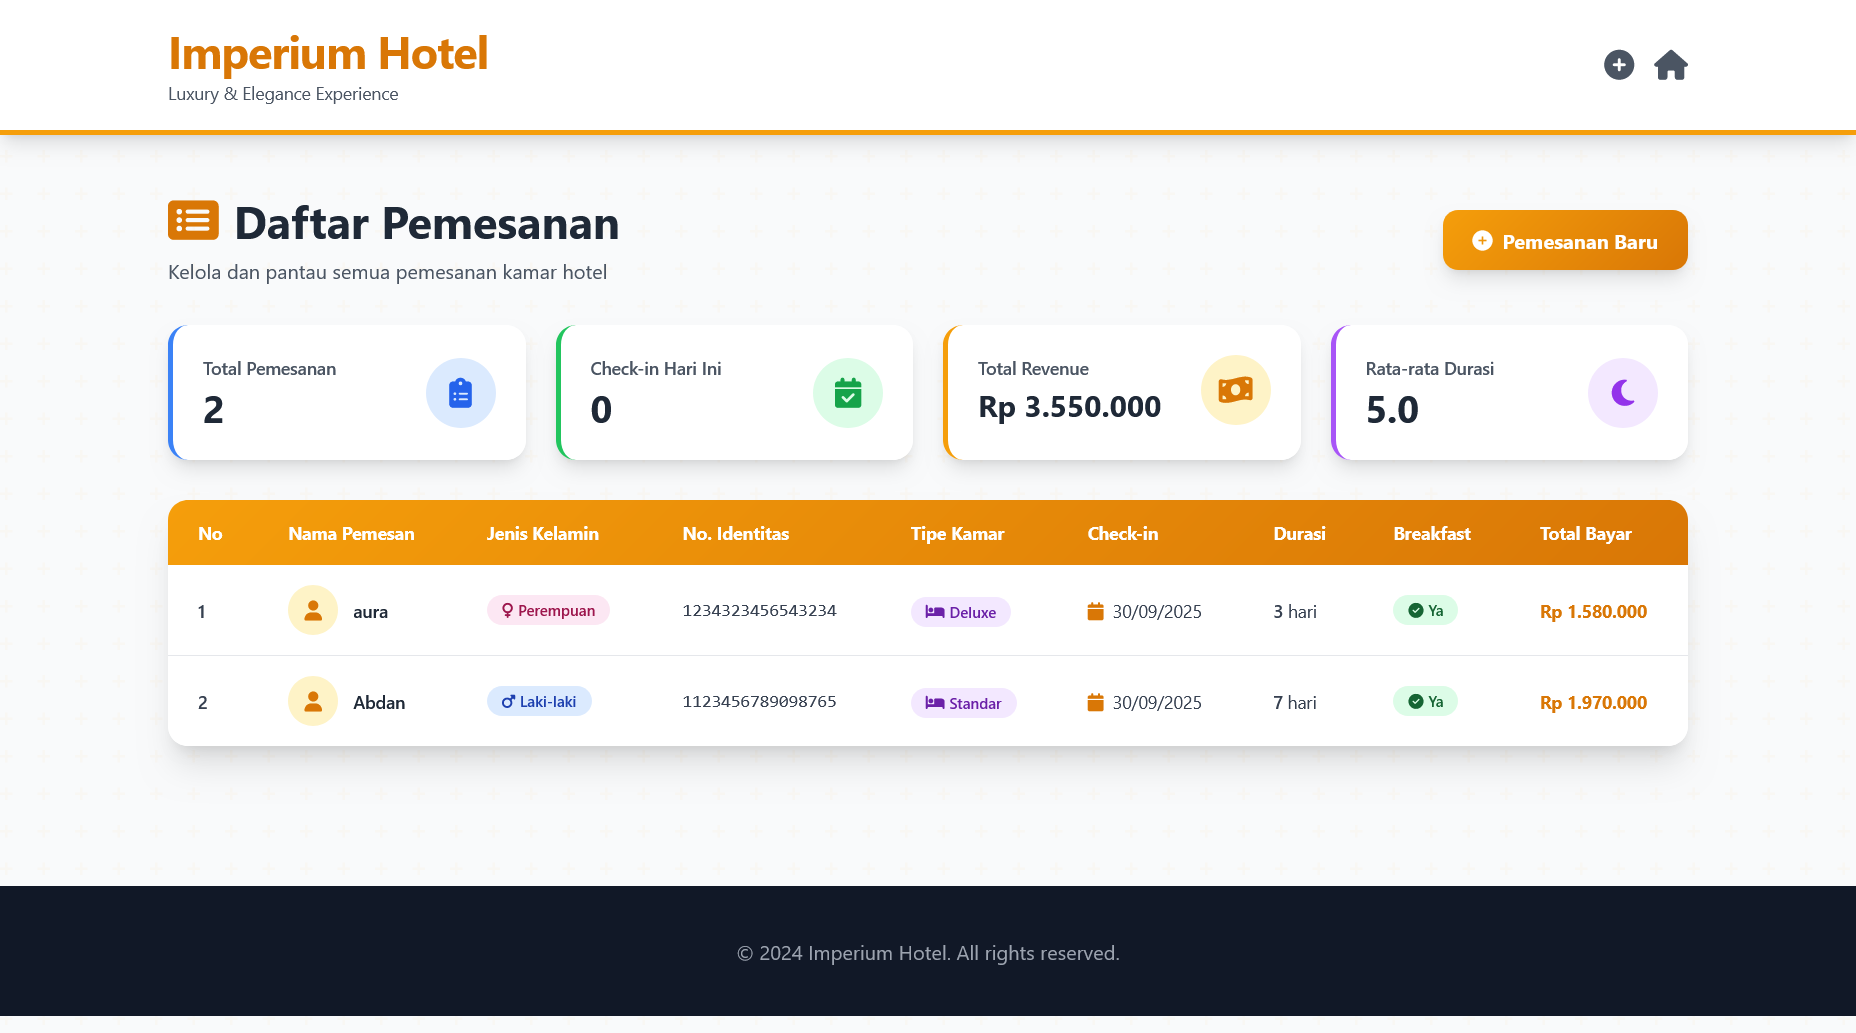
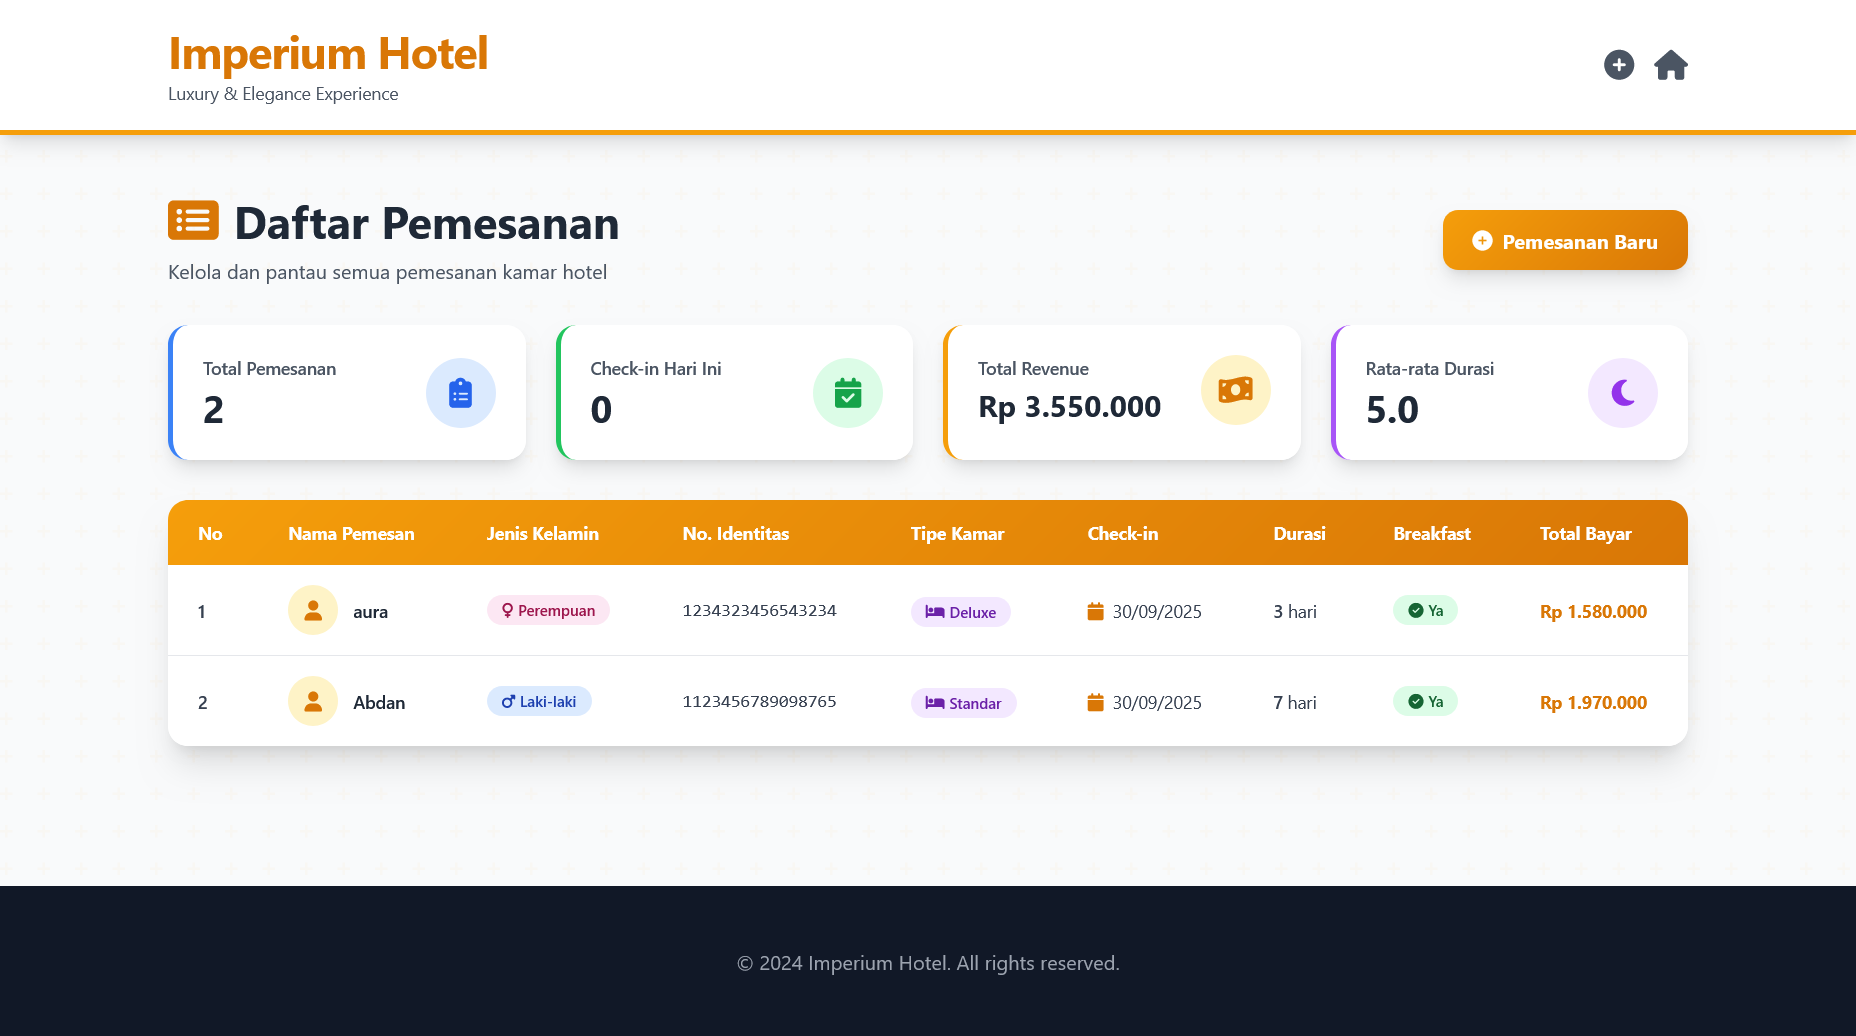
publish screenshot

diff --git a/resources/views/orders/index.blade.php b/resources/views/orders/index.blade.php
@@ -346,7 +346,7 @@
     </main>
 
     <!-- Footer -->
-    <footer class="bg-gray-900 text-white py-10 mt-16">
+    <footer class="bg-gray-900 text-white py-12 mt-16">
         <div class="max-w-7xl mx-auto px-4 text-center">
             <p class="text-gray-400">© 2024 Imperium Hotel. All rights reserved.</p>
         </div>
